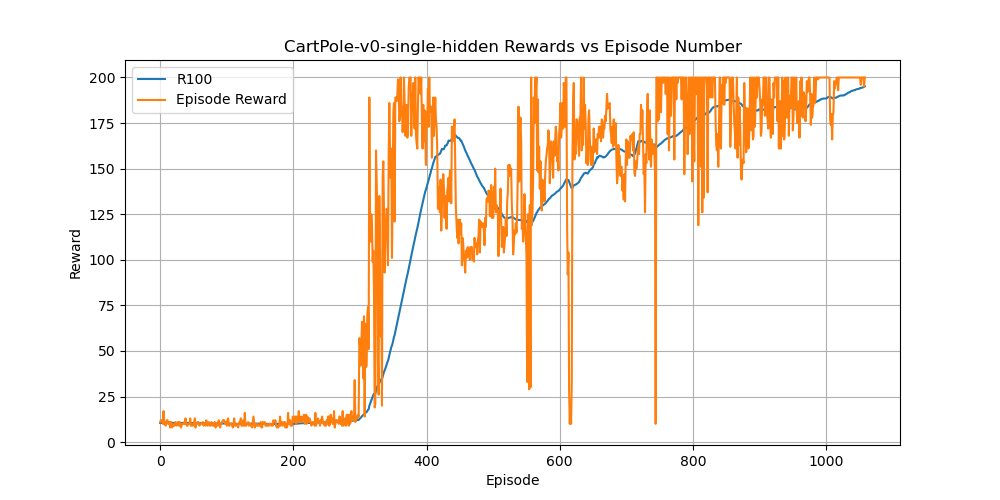
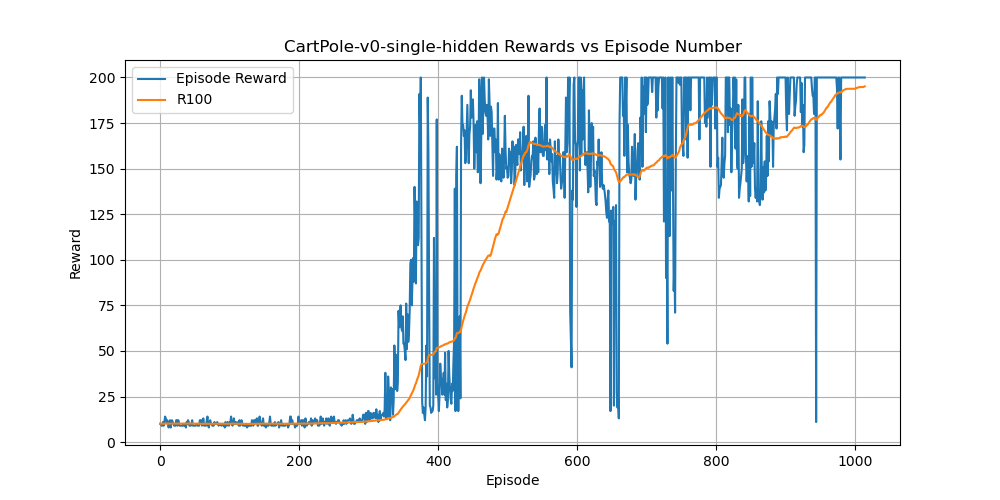
commit

diff --git a/dqn_gym.py b/dqn_gym.py
@@ -133,6 +133,7 @@ def calculate_loss(net, target_net):
 
 reward_values_list = []
 r100_values_list = []
+losses_list = []
 
 while True:
     frame_idx += 1
@@ -179,6 +180,7 @@ while True:
                 f"Frame: {frame_idx}: Episode: {episode_no}, R100: {r100: .2f}, MaxR: {max_reward: .2f}, R: {episode_reward: .2f}, FPS: {fps: .1f}, L100: {l100: .2f}, Epsilon: {epsilon: .4f}")
             r100_values_list.append(r100)
             reward_values_list.append(episode_reward)
+            losses_list.append(l100)
 
             # visualize the training when reached 95% of the target R100
             if not visualizer_on and r100 > 0.95 * params['stopping_reward']:
@@ -218,10 +220,11 @@ while True:
         break
 
 
-def plot_rewards(r100_values, reward_values, environment, network):
+def plot_raw_rewards(r100_values, reward_values, environment, network):
     plt.figure(figsize=(10, 5))
-    plt.plot(r100_values, label='R100')
     plt.plot(reward_values, label='Episode Reward')
+    plt.plot(r100_values, label='R100')
+
     plt.title(f'{environment}-{network} Rewards vs Episode Number')
     plt.xlabel('Episode')
     plt.ylabel('Reward')
@@ -235,5 +238,53 @@ def plot_rewards(r100_values, reward_values, environment, network):
     plt.savefig(filename)
     plt.show()
 
+# plot_raw_rewards(r100_values_list, reward_values_list, args.env, args.network)
 
-plot_rewards(r100_values_list, reward_values_list, args.env, args.network)
+def plot_q2_r100_rewards(r100_values, environment, network):
+    plt.figure(figsize=(10, 5))
+    plt.plot(r100_values, label='R100')
+    plt.title(f'{environment}-{network} Rewards vs Episode Number')
+    plt.xlabel('Episode')
+    plt.ylabel('Reward')
+    plt.legend()
+    plt.grid(True)
+
+    images_dir = 'Q2_Images'
+    if not os.path.exists(images_dir):
+        os.makedirs(images_dir)
+    filename = os.path.join(images_dir, f'{environment}-{network}.png')
+    plt.savefig(filename)
+    plt.show()
+
+def save_model_data(values, filename, model_desc, directory='Q3_Images'):
+    # Ensure the directory exists
+    if not os.path.exists(directory):
+        os.makedirs(directory)
+
+    # Full path to the file
+    filepath = os.path.join(directory, filename)
+
+    # Load existing data
+    if os.path.isfile(filepath):
+        data = np.load(filepath, allow_pickle=True).item()
+    else:
+        data = {}
+
+    # Append new data
+    data[model_desc] = np.array(values)
+
+    # Save data
+    np.save(filepath, data)
+
+
+# save_model_data(r100_values_list, 'r100_values.npy', 'alpha_sync_0.005')
+# save_model_data(losses_list, 'losses.npy', 'alpha_sync_0.005')
+save_model_data(r100_values_list, 'r100_values.npy', 'alpha_sync_0.01')
+save_model_data(losses_list, 'losses.npy', 'alpha_sync_0.01')
+# save_model_data(r100_values_list, 'r100_values.npy', 'target_net_sync_1000')
+# save_model_data(losses_list, 'losses.npy', 'target_net_sync_1000')
+# save_model_data(r100_values_list, 'r100_values.npy', 'target_net_sync_500')
+# save_model_data(losses_list, 'losses.npy', 'target_net_sync_500')
+# save_model_data(r100_values_list, 'r100_values.npy', 'target_net_sync_2000')
+# save_model_data(losses_list, 'losses.npy', 'target_net_sync_2000')
+

diff --git a/dqn_gym_Q1.py b/dqn_gym_Q1.py
@@ -149,7 +149,7 @@ def calculate_loss(net, target_net):
     return loss
 
 
-reward_values_list = []
+
 r100_values_list = []
 
 while True:
@@ -197,10 +197,8 @@ while True:
             print(
                 f"Frame: {frame_idx}: Episode: {episode_no}, R100: {r100: .2f}, MaxR: {max_reward: .2f}, R: {episode_reward: .2f}, FPS: {fps: .1f}, L100: {l100: .2f}, Epsilon: {epsilon: .4f}")
             r100_values_list.append(r100)
-            reward_values_list.append(episode_reward)
 
-
-            # visualize the training when reachedd 95% of the target R100
+         # visualize the training when reachedd 95% of the target R100
             if not visualizer_on and r100 > 0.95 * params['stopping_reward']:  # 如果当前平均奖励达到目标的95%
                 env = gym.make(args.env, render_mode='human')  # 创建一个新的环境实例，用于可视化
                 env.reset()  # 重置环境
@@ -239,22 +237,19 @@ while True:
         break
 
 
-def plot_rewards(r100_values, reward_values, environment, network):
+def plot_q2_r100_rewards(r100_values, environment, network):
     plt.figure(figsize=(10, 5))
     plt.plot(r100_values, label='R100')
-    plt.plot(reward_values, label='Episode Reward')
     plt.title(f'{environment}-{network} Rewards vs Episode Number')
     plt.xlabel('Episode')
     plt.ylabel('Reward')
     plt.legend()
     plt.grid(True)
 
-    images_dir = 'Q1_Images'
+    images_dir = 'Q2_Images'
     if not os.path.exists(images_dir):
         os.makedirs(images_dir)
     filename = os.path.join(images_dir, f'{environment}-{network}.png')
     plt.savefig(filename)
     plt.show()
 
-
-plot_rewards(r100_values_list, reward_values_list, args.env, args.network)

diff --git a/plot_Q3_image.py b/plot_Q3_image.py
@@ -1,0 +1,60 @@
+import os
+import numpy as np
+import matplotlib.pyplot as plt
+
+
+def load_model_data(filename):
+    filepath = os.path.join('Q3_Images', filename)
+
+    if os.path.isfile(filepath):
+        data = np.load(filepath, allow_pickle=True).item()
+        return data
+    else:
+        return {}
+
+def plot_q3_r100_rewards(environment):
+    # Load the data
+    data = load_model_data('r100_values.npy')
+    plt.figure(figsize=(10, 5))
+
+    # Plot the data for each model
+    for model, r100_values in data.items():
+        plt.plot(r100_values, label=model)
+
+    plt.title(f'{environment} R100 Rewards vs Episode Number')
+    plt.xlabel('Episode')
+    plt.ylabel('Reward')
+    plt.legend()
+    plt.grid(True)
+
+    # Save the figure
+    images_dir = 'Q3_Images'
+    filename = os.path.join(images_dir, f'{environment}_reward100.png')
+    plt.savefig(filename)
+    plt.show()
+
+
+def plot_losses(environment):
+    # Load the data
+    data = load_model_data('losses.npy')
+    plt.figure(figsize=(10, 5))
+
+    # Plot the data for each model
+    for model, losses in data.items():
+        plt.plot(losses, label=model)
+
+    plt.title(f'{environment} Losses vs Epoch Number')
+    plt.xlabel('Epoch')
+    plt.ylabel('Loss')
+    plt.legend()
+    plt.grid(True)
+
+    # Save the figure
+    images_dir = 'Q3_Images'
+    filename = os.path.join(images_dir, f'{environment}_losses.png')
+    plt.savefig(filename)
+    plt.show()
+
+
+plot_q3_r100_rewards('Cartpole-V0')
+plot_losses('Cartpole-V0')
